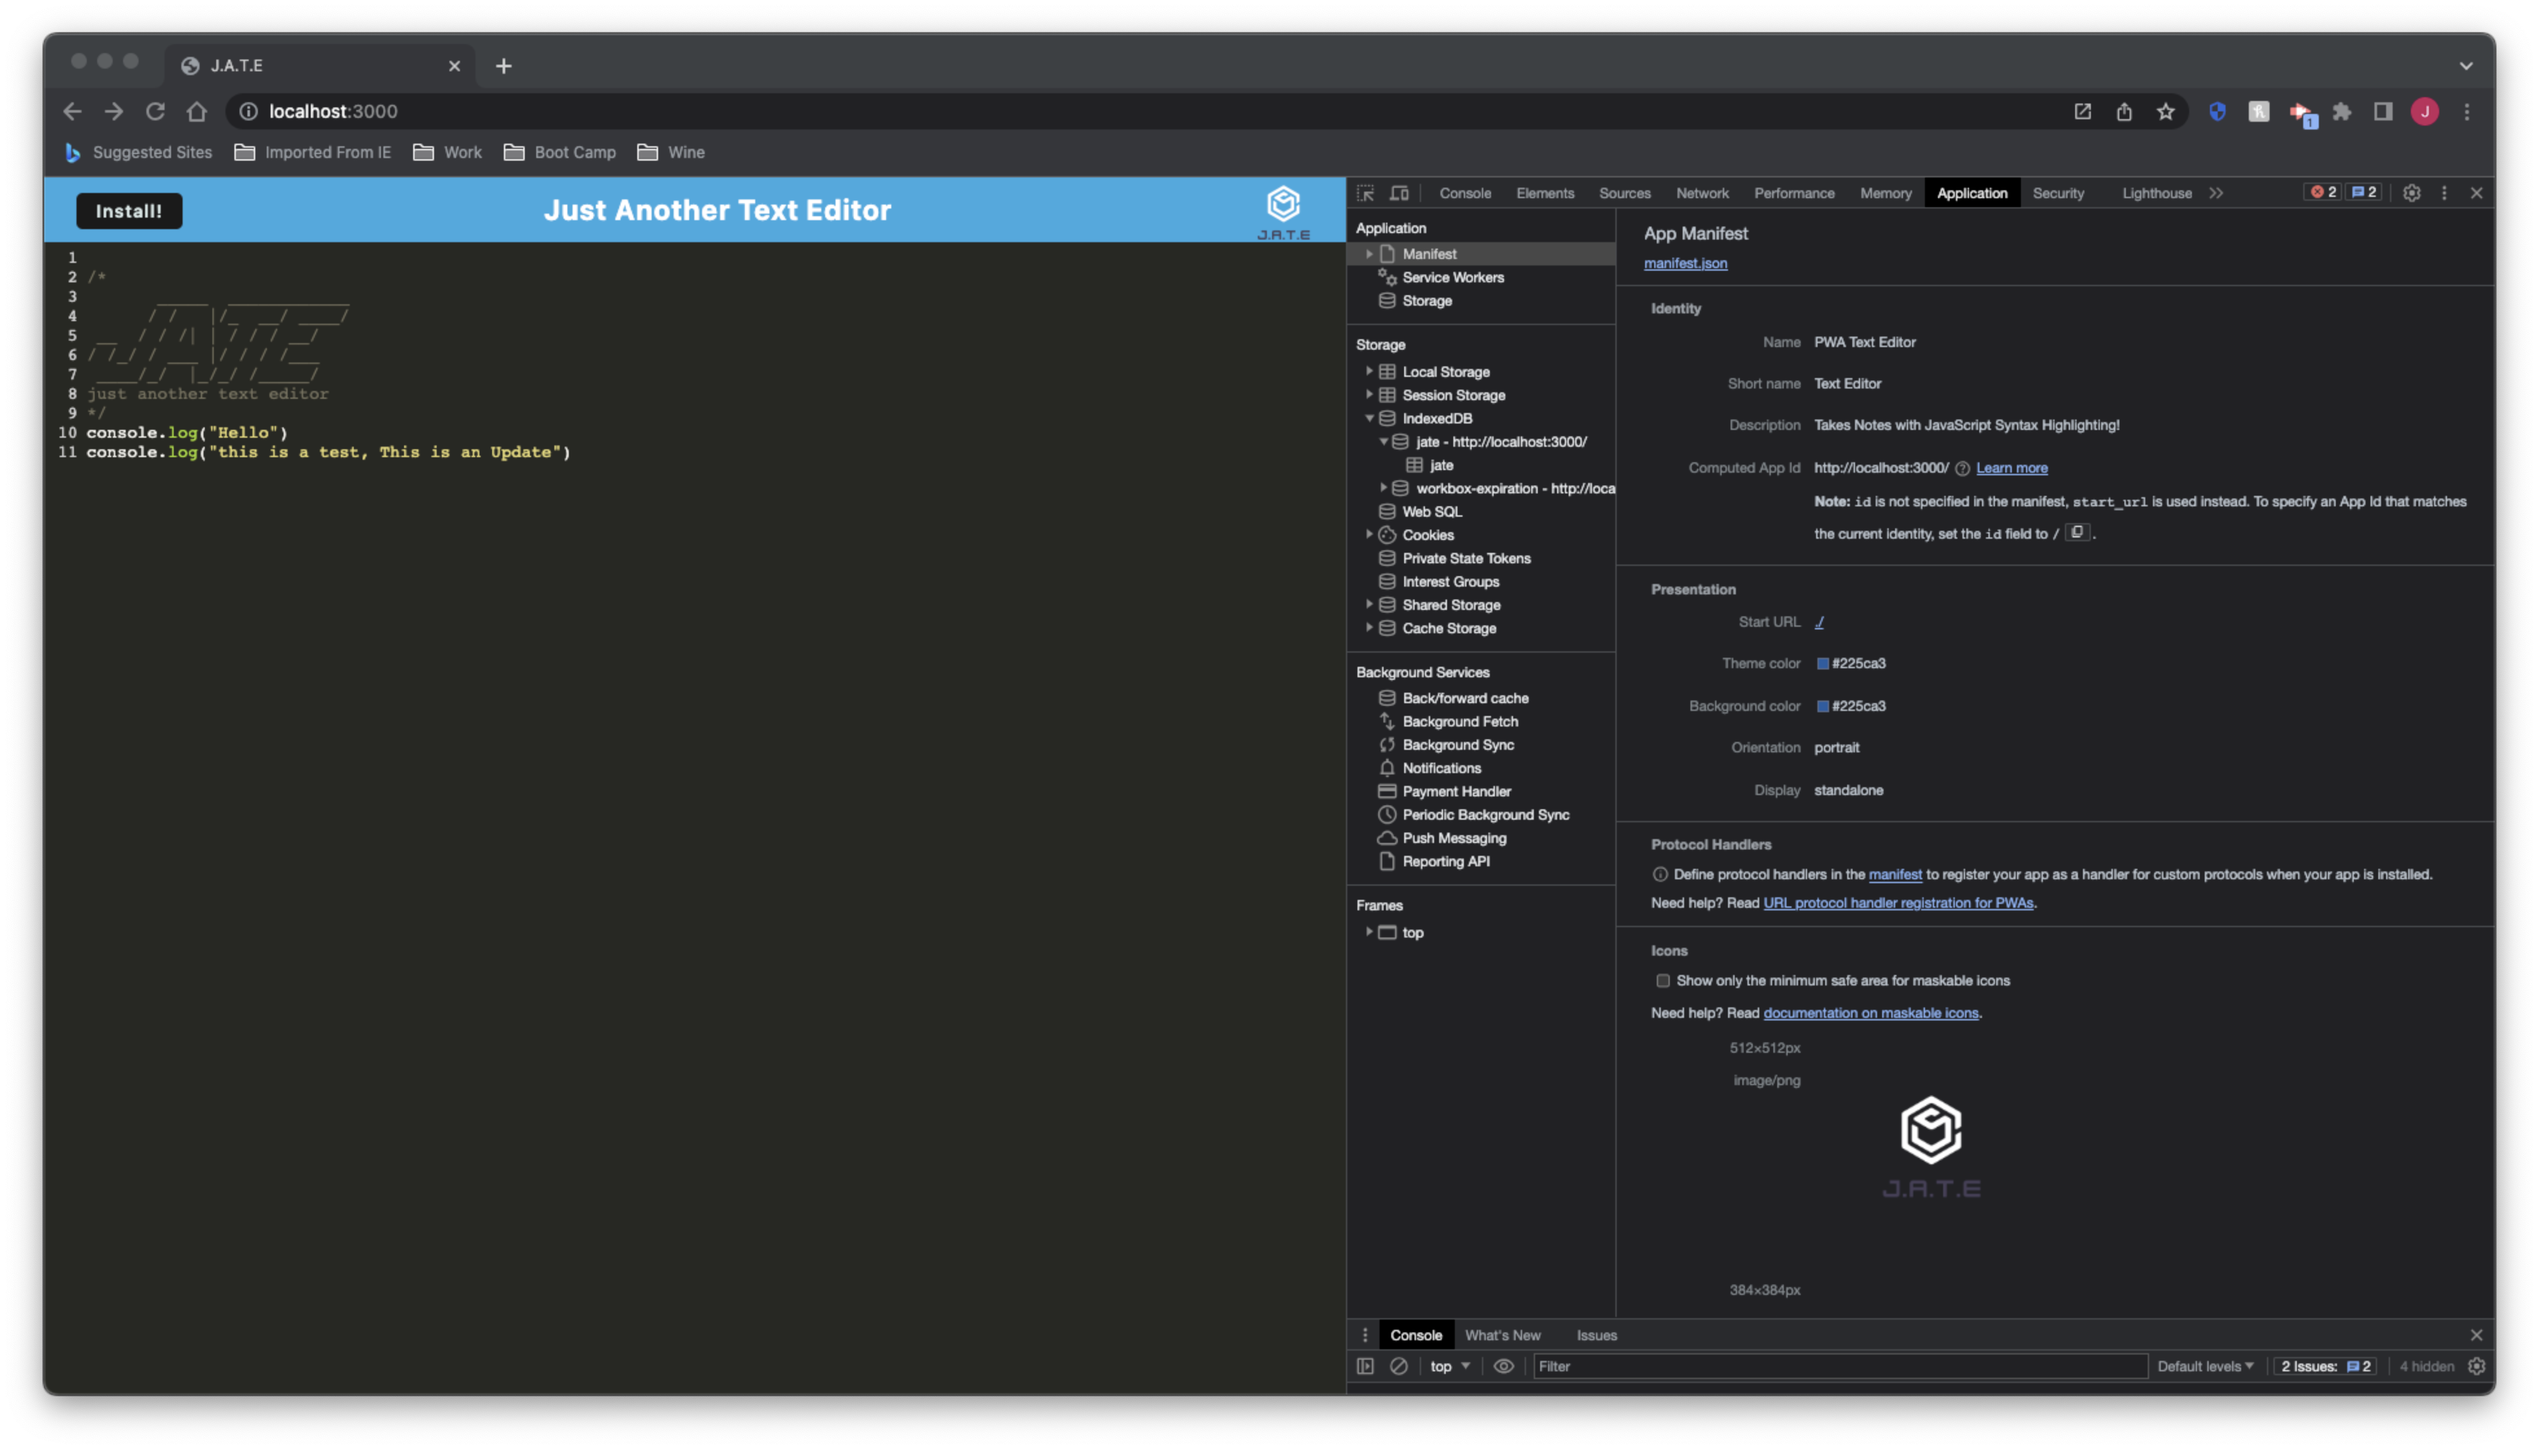
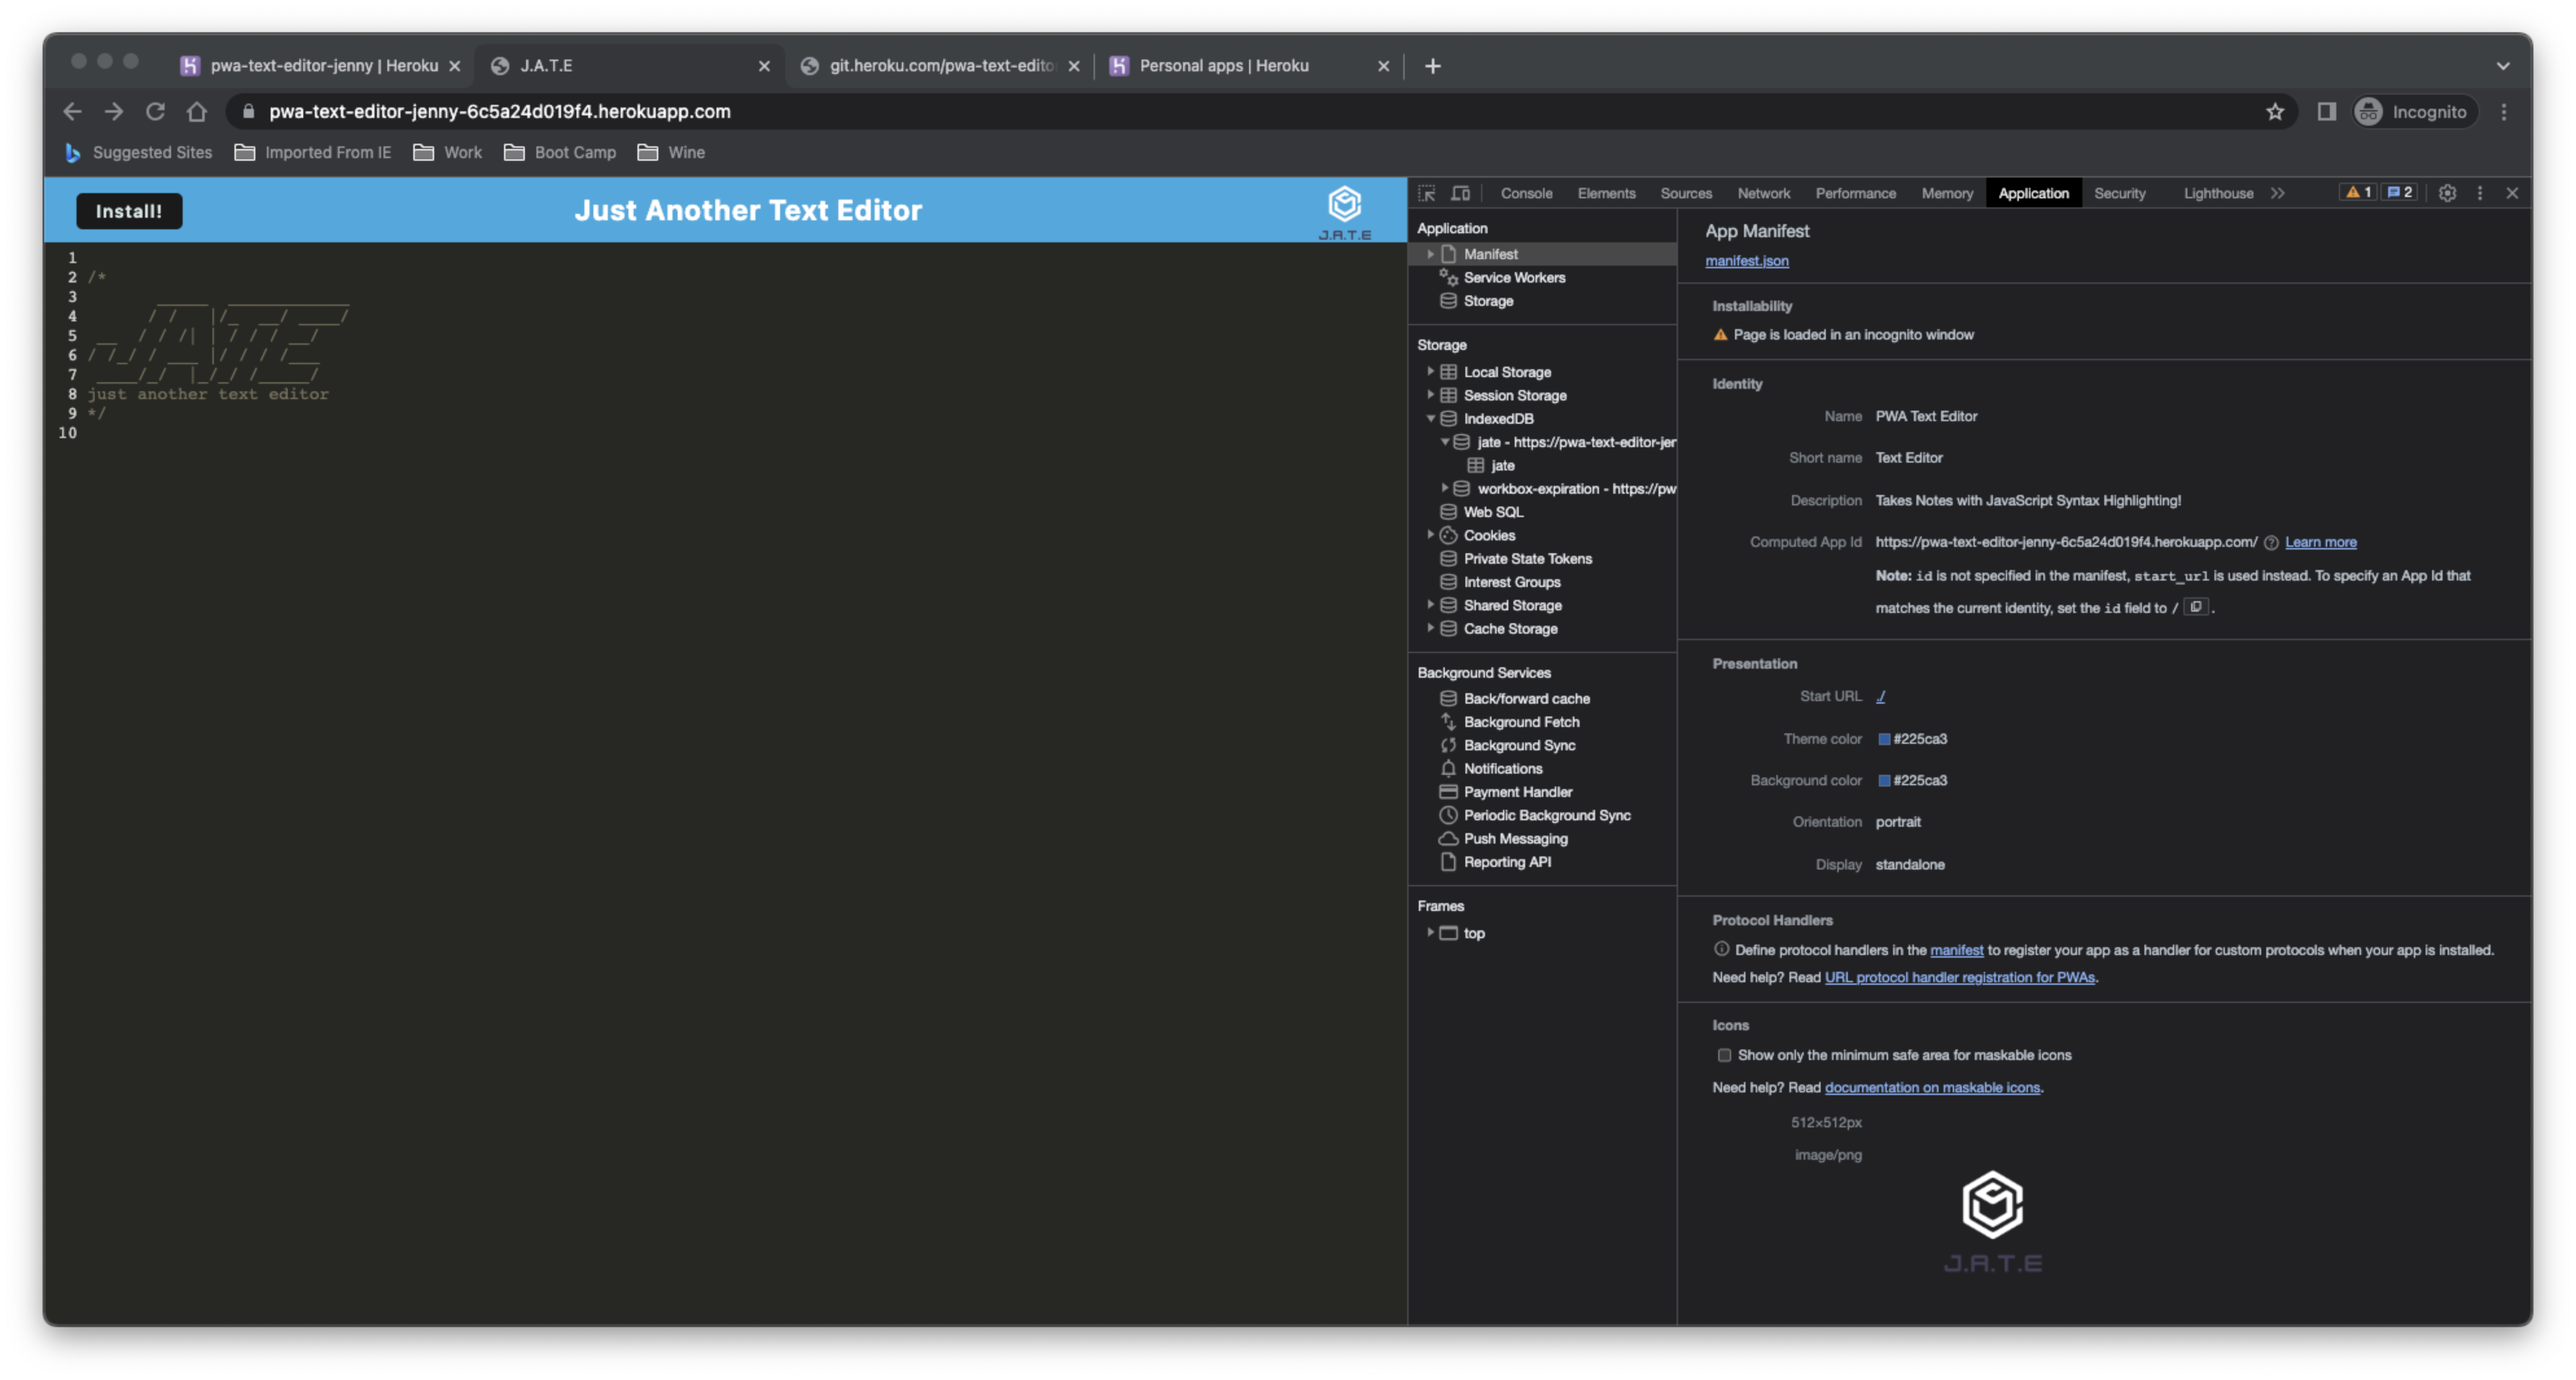
screenshots added to readme file

diff --git a/README.md b/README.md
@@ -1,145 +1,3 @@
-# 19 Progressive Web Applications (PWA): Text Editor
-
-## Your Task
-
-As you have progressed through this course, you have put together a number of impressive projects that you can show off to potential employers. This project is no exception; in fact, it features some of the most impressive expressions of the concepts you have learned so far.
-
-Your task is to build a text editor that runs in the browser. The app will be a single-page application that meets the PWA criteria. Additionally, it will feature a number of data persistence techniques that serve as redundancy in case one of the options is not supported by the browser. The application will also function offline.
-
-To build this text editor, you will start with an existing application and implement methods for getting and storing data to an IndexedDB database. You will use a package called `idb`, which is a lightweight wrapper around the IndexedDB API. It features a number of methods that are useful for storing and retrieving data, and is used by companies like Google and Mozilla.
-
-You will deploy this full-stack application to Heroku using the [Heroku Deployment Guide on The Full-Stack Blog](https://coding-boot-camp.github.io/full-stack/heroku/heroku-deployment-guide).
-
-## User Story
-
-```md
-AS A developer
-I WANT to create notes or code snippets with or without an internet connection
-SO THAT I can reliably retrieve them for later use
-```
-
-## Acceptance Criteria
-
-```md
-GIVEN a text editor web application
-WHEN I open my application in my editor
-THEN I should see a client server folder structure
-WHEN I run `npm run start` from the root directory
-THEN I find that my application should start up the backend and serve the client
-WHEN I run the text editor application from my terminal
-THEN I find that my JavaScript files have been bundled using webpack
-WHEN I run my webpack plugins
-THEN I find that I have a generated HTML file, service worker, and a manifest file
-WHEN I use next-gen JavaScript in my application
-THEN I find that the text editor still functions in the browser without errors
-WHEN I open the text editor
-THEN I find that IndexedDB has immediately created a database storage
-WHEN I enter content and subsequently click off of the DOM window
-THEN I find that the content in the text editor has been saved with IndexedDB
-WHEN I reopen the text editor after closing it
-THEN I find that the content in the text editor has been retrieved from our IndexedDB
-WHEN I click on the Install button
-THEN I download my web application as an icon on my desktop
-WHEN I load my web application
-THEN I should have a registered service worker using workbox
-WHEN I register a service worker
-THEN I should have my static assets pre cached upon loading along with subsequent pages and static assets
-WHEN I deploy to Heroku
-THEN I should have proper build scripts for a webpack application
-```
-
-## Mock-Up
-
-The following animation demonstrates the application functionality:
-
-![Demonstration of the finished Module 19 Challenge being used in the browser and then installed.](./Assets/00-demo.gif)
-
-The following image shows the application's `manifest.json` file:
-
-![Demonstration of the finished Module 19 Challenge with a manifest file in the browser.](./Assets/01-manifest.png)
-
-The following image shows the application's registered service worker:
-
-![Demonstration of the finished Module 19 Challenge with a registered service worker in the browser.](./Assets/02-service-worker.png)
-
-The following image shows the application's IndexedDB storage:
-
-![Demonstration of the finished Module 19 Challenge with a IndexedDB storage named 'jate' in the browser.](./Assets/03-idb-storage.png)
-
-## Grading Requirements
-
-> **Note**: If a Challenge assignment submission is marked as “0”, it is considered incomplete and will not count towards your graduation requirements. Examples of incomplete submissions include the following:
->
-> * A repository that has no code
->
-> * A repository that includes a unique name but nothing else
->
-> * A repository that includes only a README file but nothing else
->
-> * A repository that only includes starter code
-
-This Challenge is graded based on the following criteria:
-
-### Technical Acceptance Criteria: 40%
-
-* Satisfies all of the above acceptance criteria plus the following:
-
-  * Uses IndexedDB to create an object store and includes both GET and PUT methods
-
-  * The application works without an internet connection
-
-  * Automatically saves content inside the text editor when the DOM window is unfocused
-
-  * Bundled with webpack
-
-  * Create a service worker with workbox that Caches static assets
-
-  * The application should use babel in order to use async / await
-
-  * Application must have a generated `manifest.json` using the `WebpackPwaManifest` plug-in
-
-  * Can be installed as a Progressive Web Application
-
-### Deployment: 32%
-
-* Application deployed to Heroku at live URL with build scripts
-
-* Application loads with no errors
-
-* Application GitHub URL submitted
-
-* GitHub repo contains application code
-
-### Application Quality: 15%
-
-* Application user experience is intuitive and easy to navigate
-
-* Application user interface style is clean and polished
-
-* Application resembles the mock-up functionality provided in the Challenge instructions
-
-### Repository Quality: 13%
-
-* Repository has a unique name
-
-* Repository follows best practices for file structure and naming conventions
-
-* Repository follows best practices for class/id naming conventions, indentation, quality comments, etc.
-
-* Repository contains multiple descriptive commit messages
-
-* Repository contains quality README file with description, screenshot, and link to deployed application
-
-## Review
-
-You are required to submit the following for review:
-
-* The URL of the deployed application
-
-* The URL of the GitHub repository, with a unique name and a README describing the project
-
-- - -
-© 2023 edX Boot Camps LLC. Confidential and Proprietary. All Rights Reserved.
 # 19 Progressive Web Applications (PWA): Jenny Naoroji's Text Editor
 
 ## Description
@@ -155,15 +13,13 @@ This full-stack application will be deployed to Heroku.
 ## Usage
 
 To use this application visit the Heroku deployment link!
-- https://jenny-tech-blog-5f80e3182e28.herokuapp.com/
+- https://pwa-text-editor-jenny-6c5a24d019f4.herokuapp.com/
 
 ## Credits
 
 - [Heroku Deployment Guide on The Full-Stack Blog](https://coding-boot-camp.github.io/full-stack/heroku/heroku-deployment-guide).
 - [IndexDB](https://developer.mozilla.org/en-US/docs/Web/API/IndexedDB_API)
 - [Webpack](https://webpack.js.org/guides/getting-started/)
-- service worker
-- manifest
 - Mock up functionality:
 The following animations demonstrates the applications Mock functionality:
 
@@ -184,19 +40,20 @@ The following image shows the application's IndexedDB storage:
 ## Screenshots
 The following screenshots show my apps functionality:
 
-![Demonstration of the finished Module 19 Challenge being used in the browser and then installed.](./assets/00-demo.gif)
+![Demonstration of the finished app being used in the browser and then installed.](./assets/downloadScreenshot.png)
+![Demonstration of functionality in browser](./assets/functionality.png)
 
 The following image shows the application's `manifest.json` file:
 
-![Demonstration of the finished Module 19 Challenge with a manifest file in the browser.](./assets/01-manifest.png)
+![Demo of manifest file in the browser.](./assets/manifestScreenshot.png)
 
 The following image shows the application's registered service worker:
 
-![Demonstration of the finished Module 19 Challenge with a registered service worker in the browser.](./assets/02-service-worker.png)
+![Demonstration of the registered service worker in the browser.](./assets/serviceWorkerScreenshot.png)
 
 The following image shows the application's IndexedDB storage:
 
-![Demonstration of the finished Module 19 Challenge with a IndexedDB storage named 'jate' in the browser.](./assets/03-idb-storage.png)
+![Demonstration of the IndexedDB storage named 'jate' in the browser.](./assets/indexedDBScreenshot.png)
 
 ## License
 
